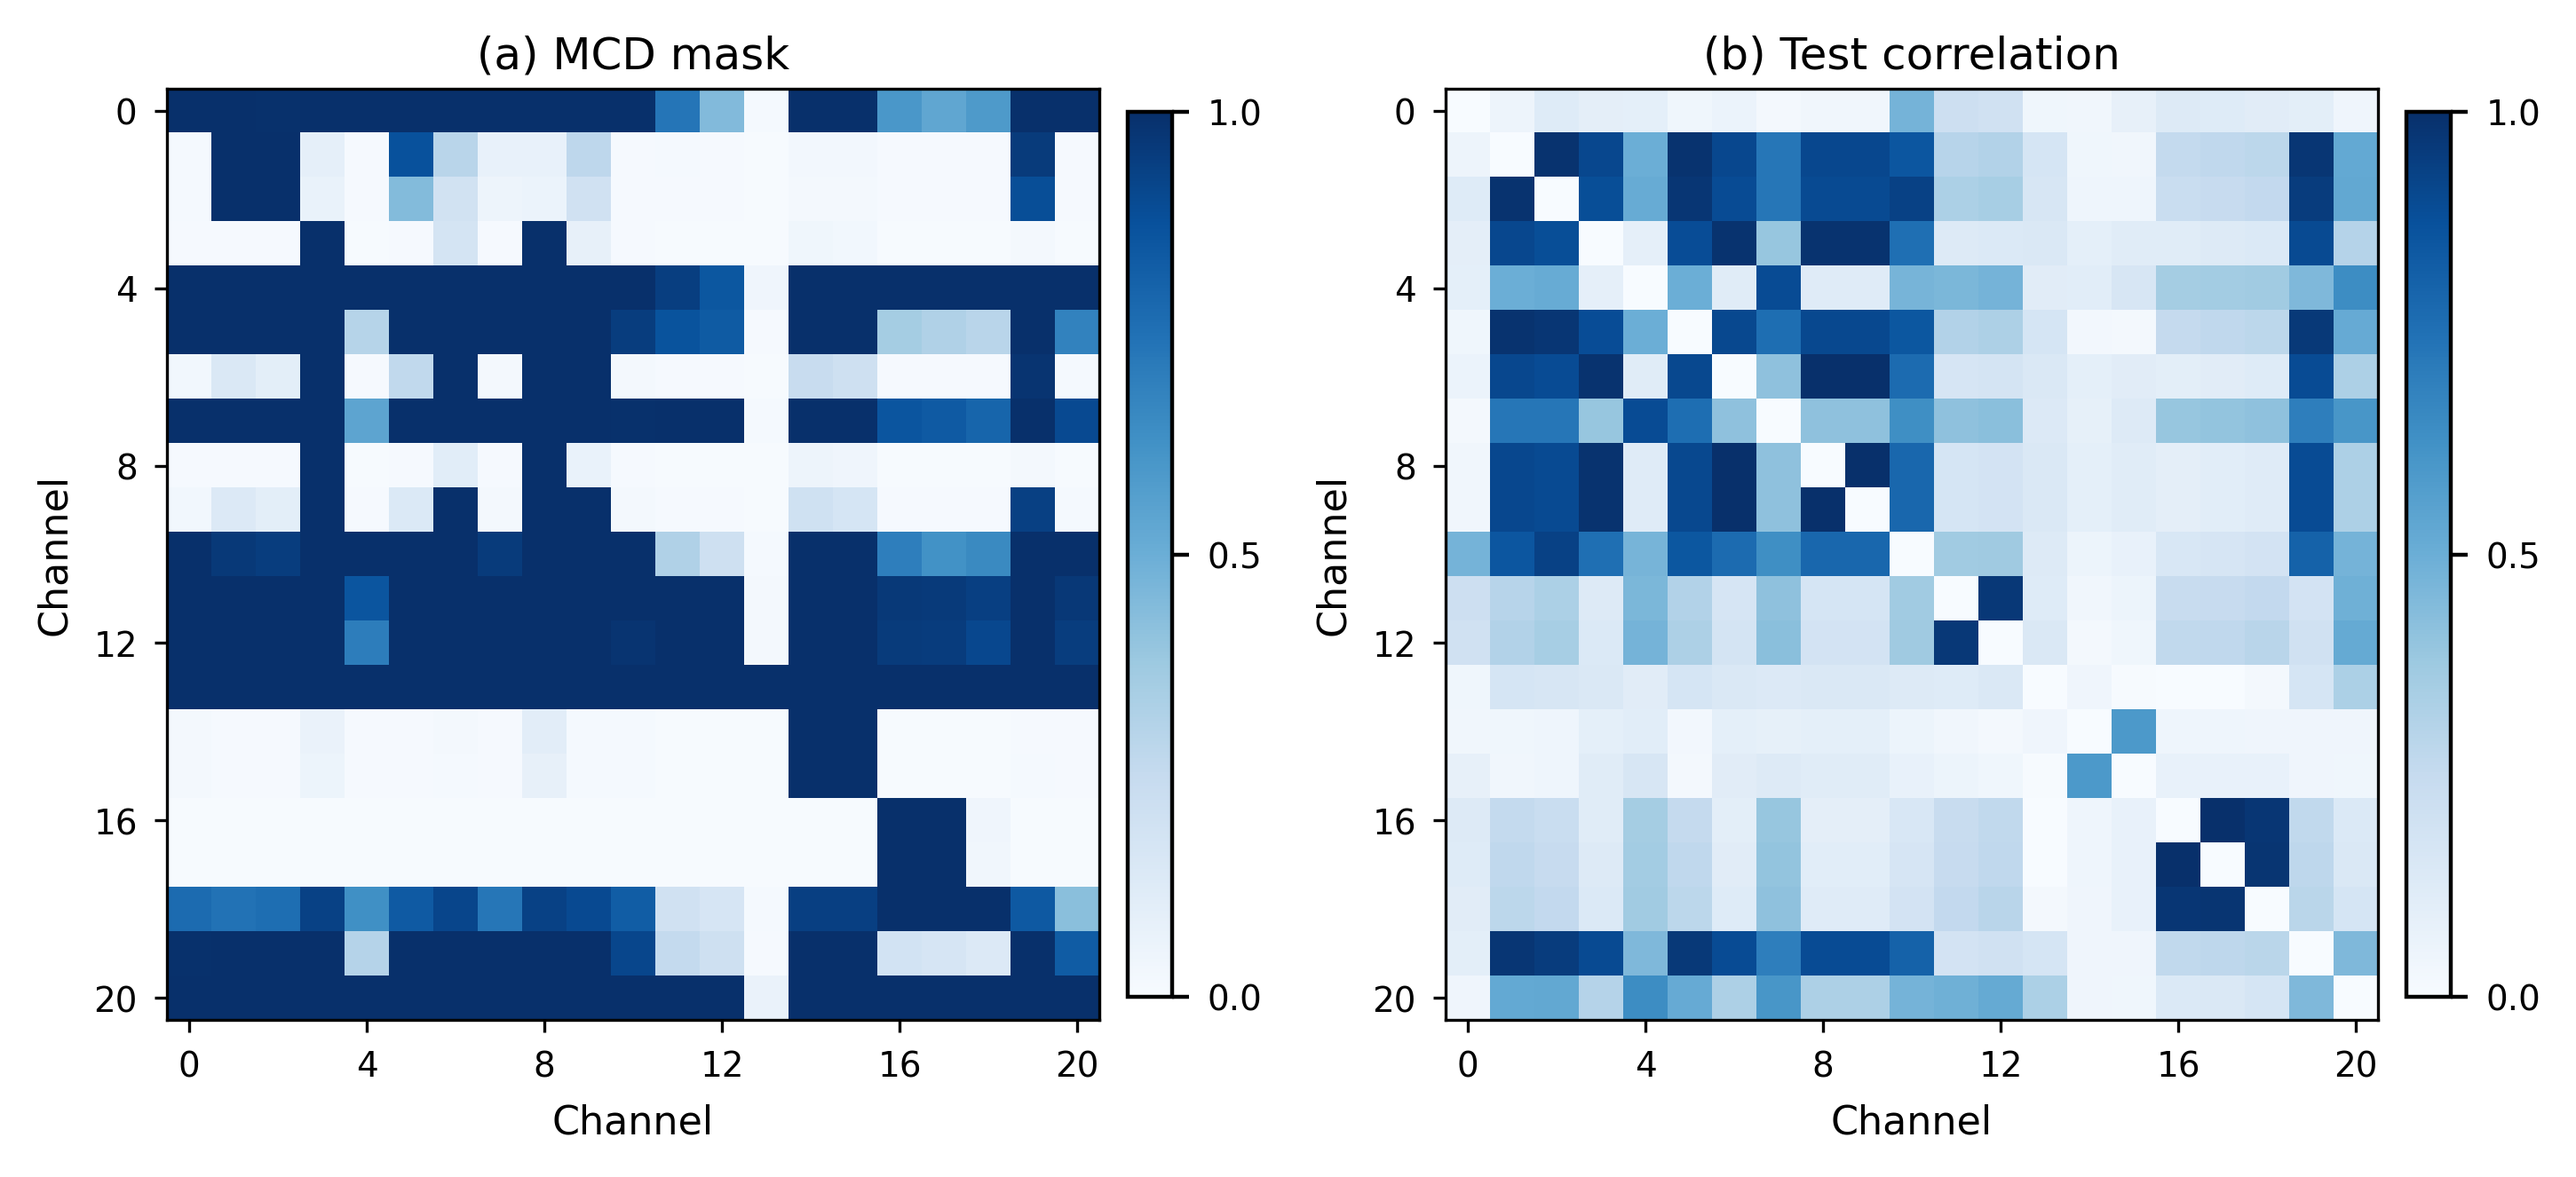
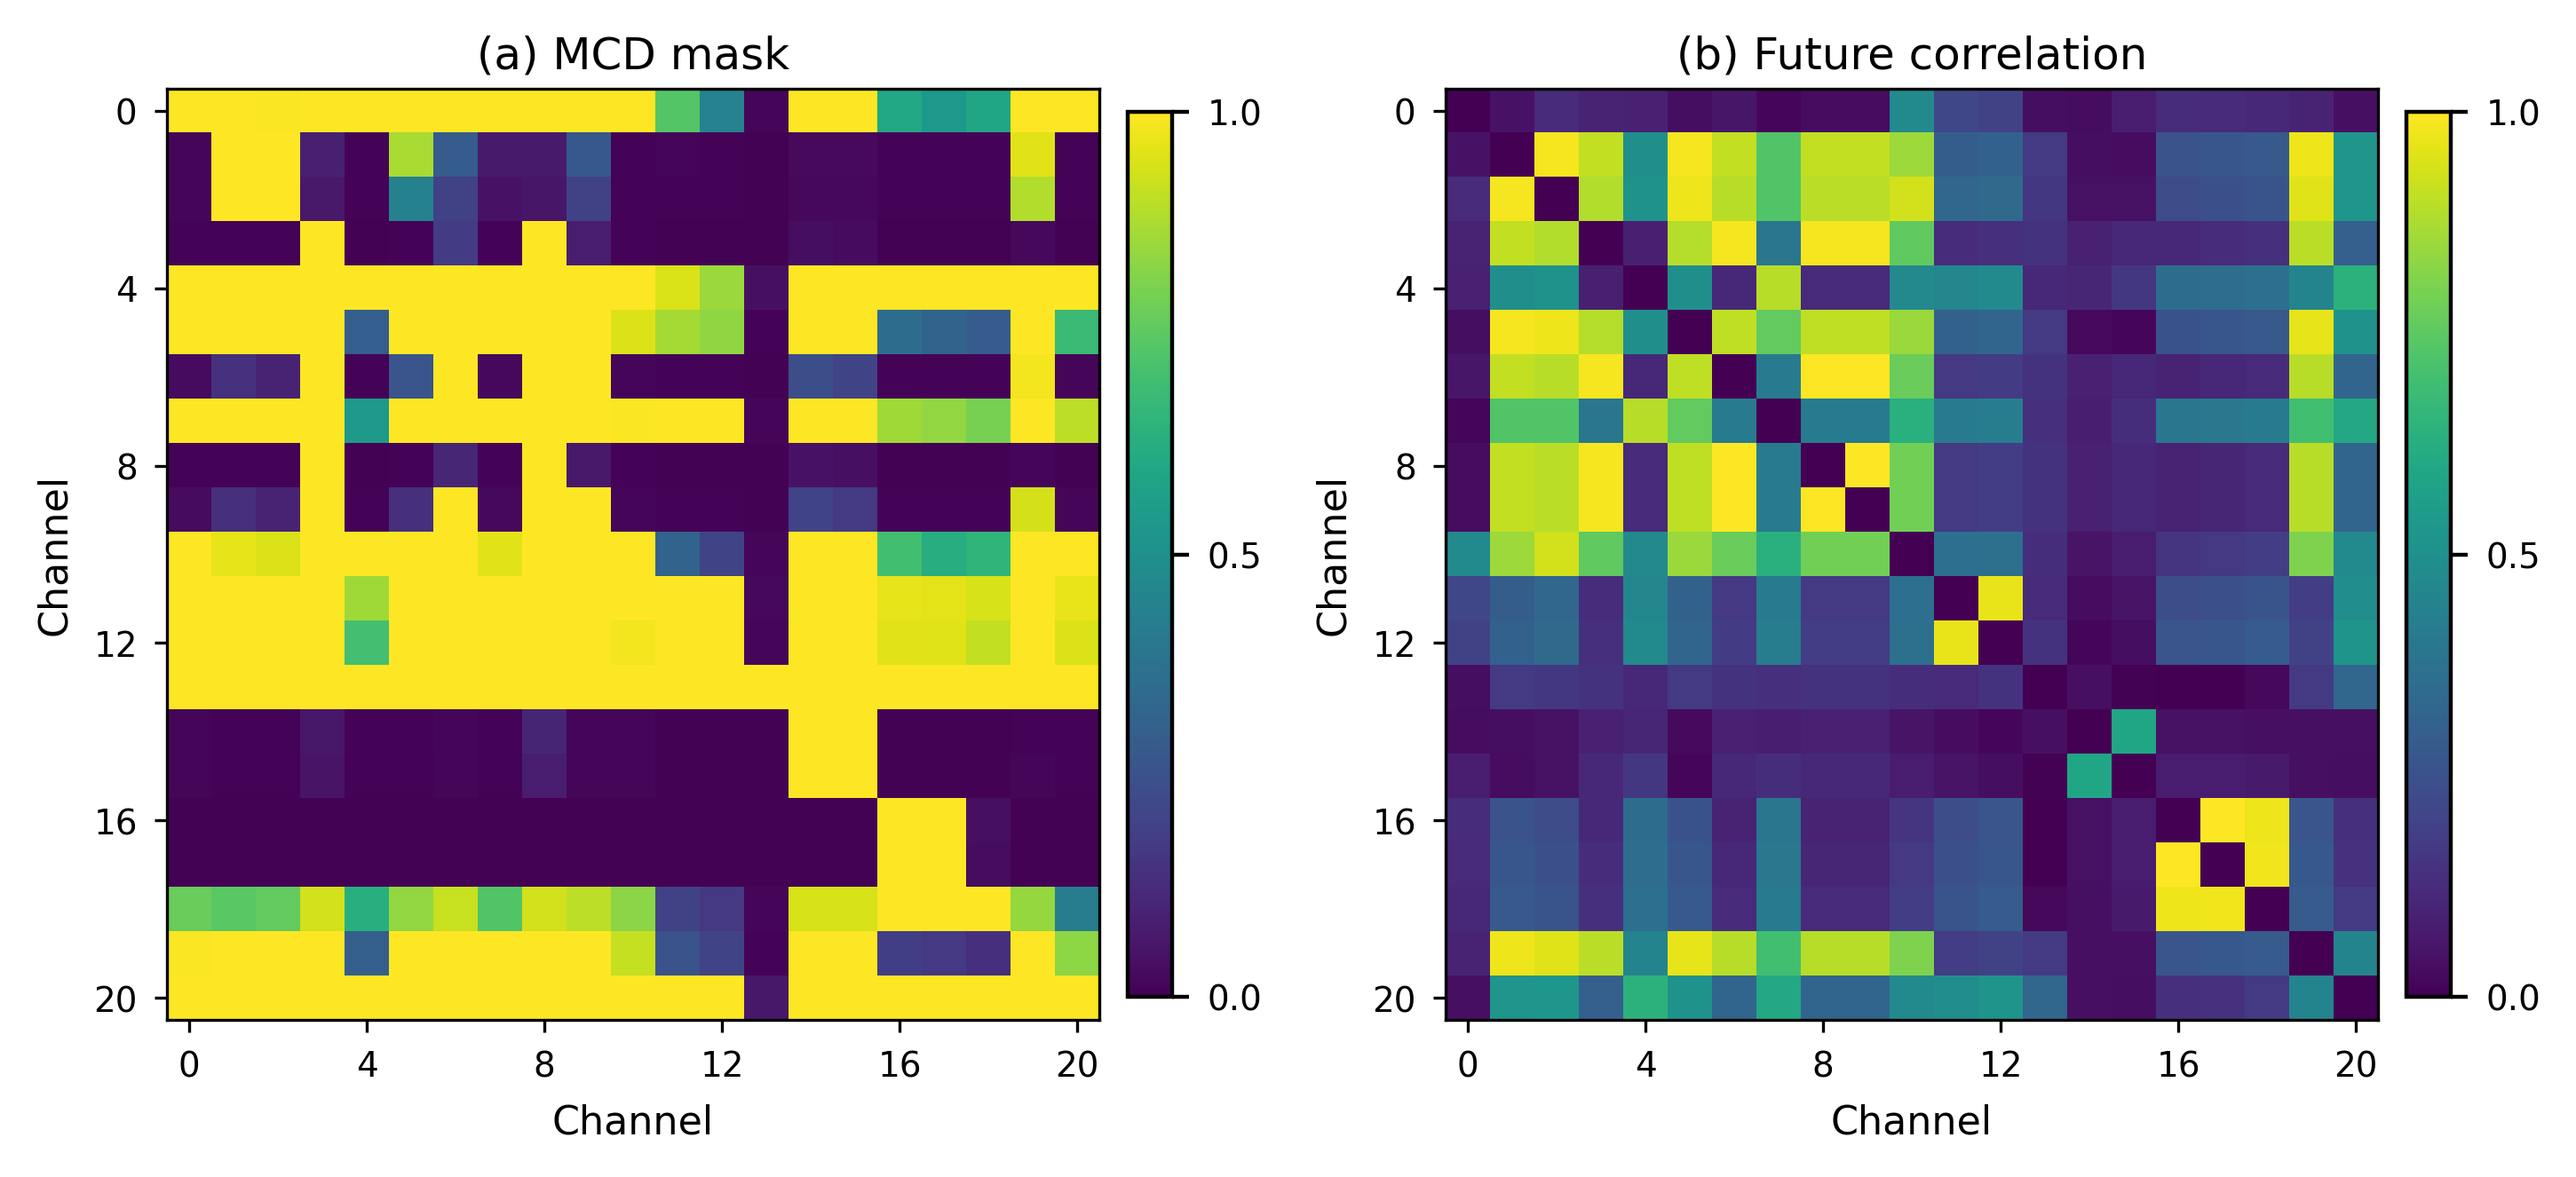
style(revision): align mask figure with viridis palette
Match the existing representation visualization palette and label the comparison panel as future correlation.

diff --git a/scripts/revision/analyze_mcd_mask_interpretability.py b/scripts/revision/analyze_mcd_mask_interpretability.py
@@ -150,7 +150,7 @@ def _plot_heatmaps(mask: np.ndarray, corr: np.ndarray | None, output_path: Path,
     fig, axes = plt.subplots(1, panels, figsize=(width, 3.2), constrained_layout=True)
     if panels == 1:
         axes = [axes]
-    cmap = "Blues"
+    cmap = "viridis"
     image = axes[0].imshow(mask, cmap=cmap, vmin=0, vmax=1, aspect="equal", interpolation="nearest")
     axes[0].set_title("(a) MCD mask", pad=4)
     axes[0].set_xlabel("Channel")
@@ -159,7 +159,7 @@ def _plot_heatmaps(mask: np.ndarray, corr: np.ndarray | None, output_path: Path,
     cbar.set_ticks([0.0, 0.5, 1.0])
     if panels == 2 and corr is not None:
         corr_image = axes[1].imshow(corr, cmap=cmap, vmin=0, vmax=1, aspect="equal", interpolation="nearest")
-        axes[1].set_title("(b) Test correlation", pad=4)
+        axes[1].set_title("(b) Future correlation", pad=4)
         axes[1].set_xlabel("Channel")
         axes[1].set_ylabel("Channel")
         corr_cbar = fig.colorbar(corr_image, ax=axes[1], fraction=0.046, pad=0.03)
